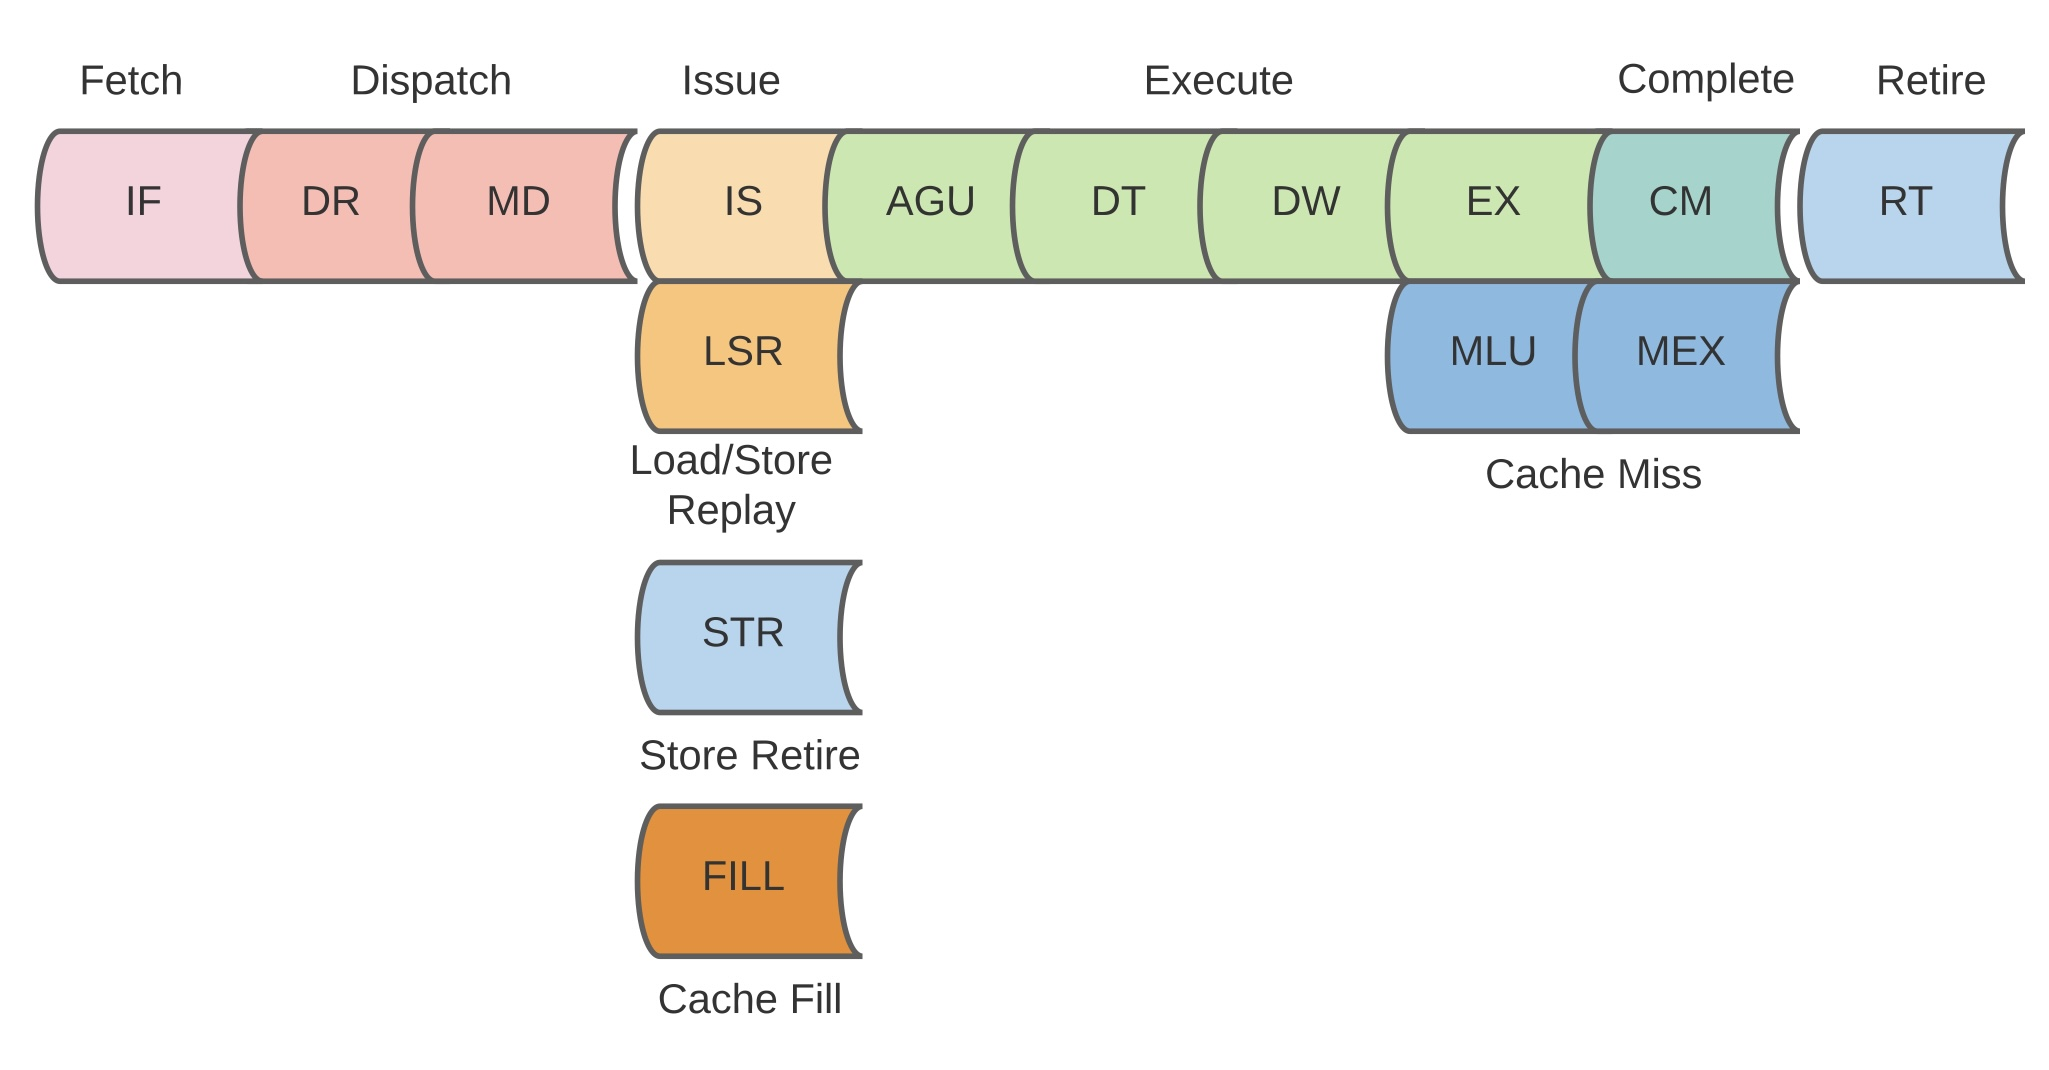
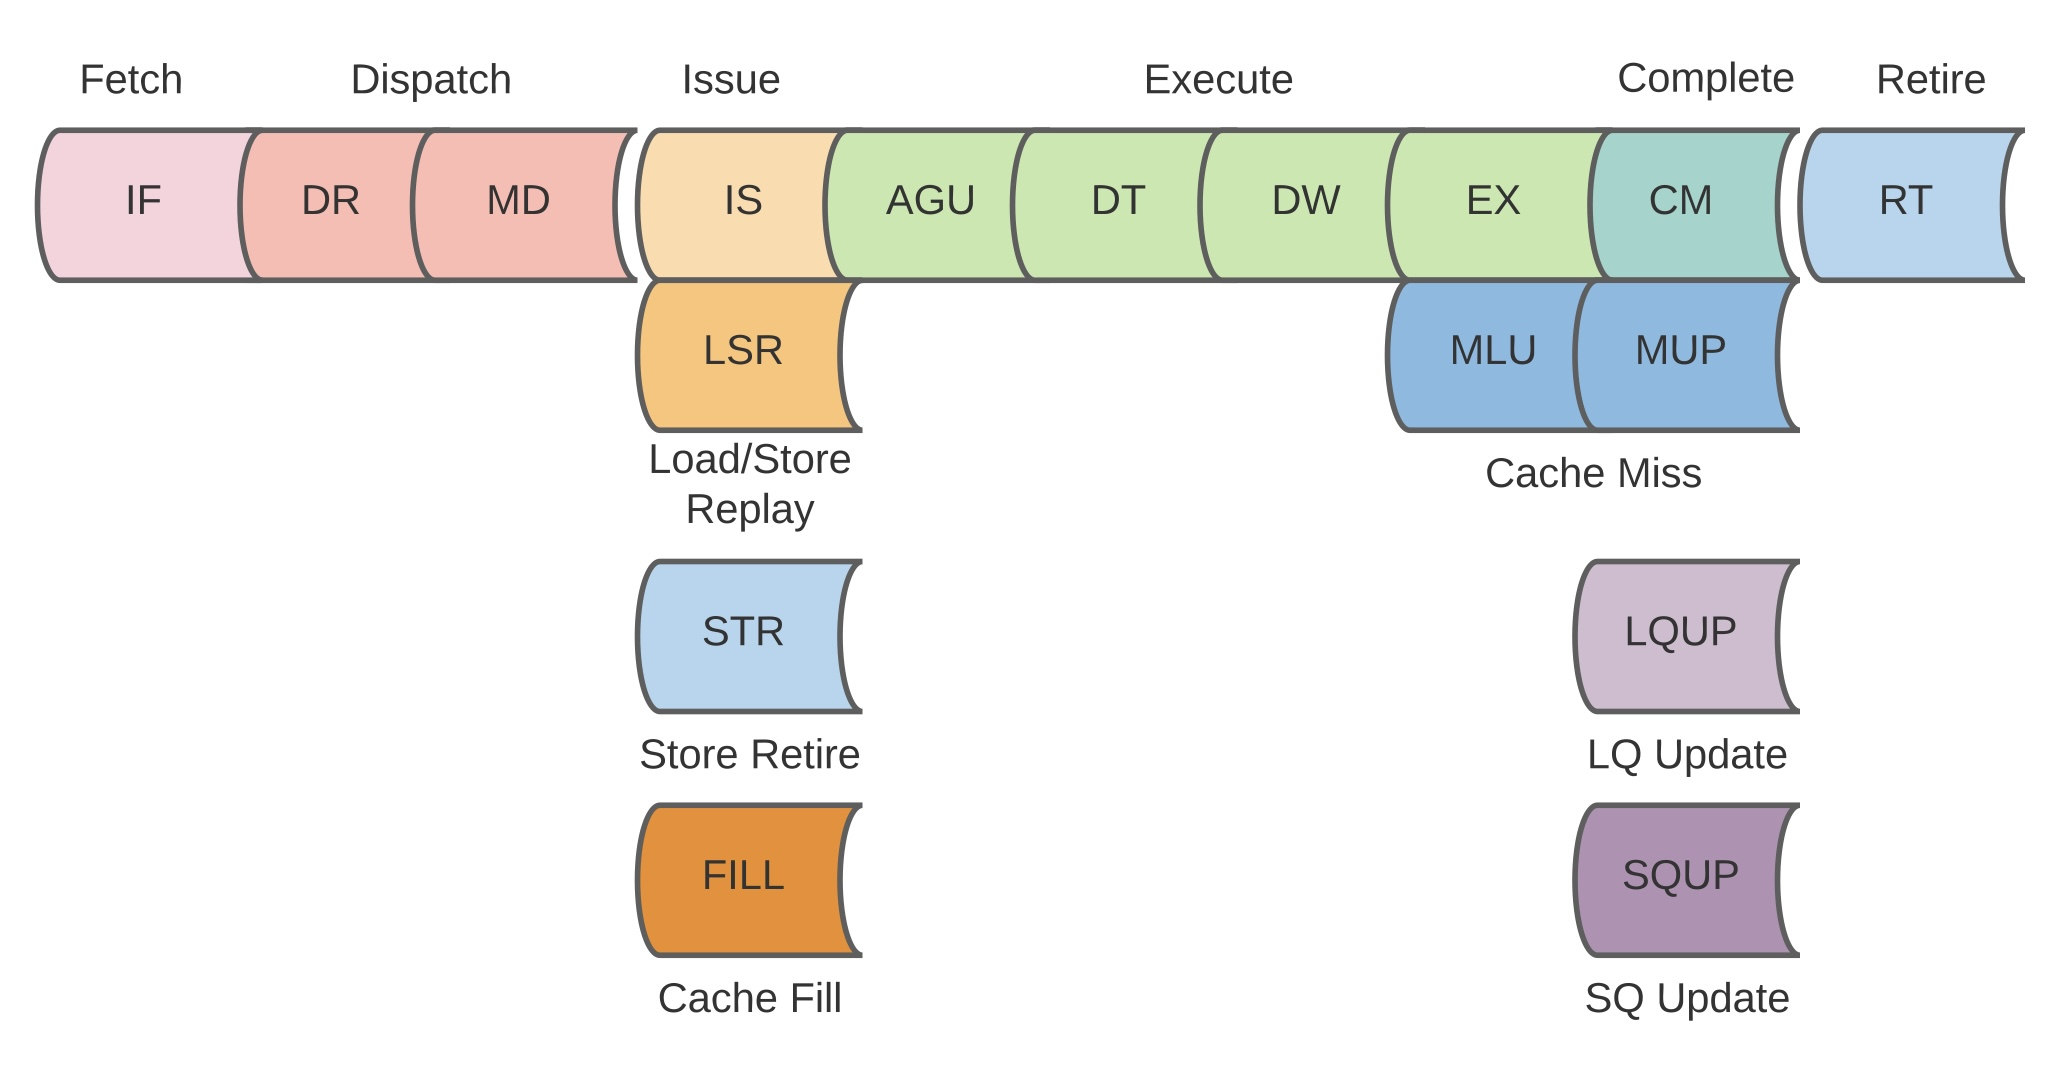
Update README.md and LSU pipeline diagram
LSU pipeline diagram upgraded to show LQ/SQ update cycle and renamed
the MEX pipe stage to MUP.

diff --git a/README.md b/README.md
@@ -122,6 +122,10 @@ The execute stage is straightforward. The actual bytes needed by the load instru
 
 The data on the CDB will be used to forward any load data to dependent instructions in any of the Reservation Stations. The ROB entry for the instruction will be marked as completed and it'll wait there until it is ready to be retired. Stores will not write to the Data Cache until they are retired to prevent mis-speculated updates to the cache and maintain precise interrupts. Both loads and stores will be kept in the respective queues until they are retired. For loads this allows retiring stores to look up younger loads and mark them as mis-speculated if the address ranges overlap. There is no store data bypassing in the LSU so this is necessary.
 
+#### LQ/SQ Update
+
+During the same cycle as `CM` (complete), the Load Queue and Store Queue will be updated with the MHQ tag or an MHQ fill in the case the load or store missed in the cache. Load/stores will be immediately be marked `replayable` if the cacheline they need is ready in the MHQ and the MHQ is ready to launch a cache fill request to the LSU.
+
 #### Retire
 
 Loads will be deallocated from the Load Queue if a mis-speculation did not occur. If the load was speculatively executed and an older Store wrote to the same bytes as the load, it'll be marked as mis-speculated in the ROB and the ROB will flush the entire pipeline and restart execution at the mis-speculated load. Stores will be removed from the ROB but not from the Store Queue. Instead they will be marked as non-speculative or retired in the Store Queue. This mechanism is described further below.
@@ -142,7 +146,7 @@ The Miss Handling Queue takes care of any cache misses. It interfaces with the B
 
 The MHQ is looked up in the same cycle as the LSU `EX` cycle. This is to find a matching entry or a new entry for the given load/store address if any exists so that, for loads, the Load Queue can be updated in the next cycle in case of a cache miss and for stores, the store data can be written to the MHQ entry in case of a cache miss.
 
-#### MHQ Execute
+#### MHQ Update
 
 A new entry is allocated in this cycle in case of a cache miss. If an entry already exists for the given load/store address the load/store will be simply be merged with this entry. For stores, this means the store data will be written into the cache-line buffer for the entry (in both the new or existing entry cases). The MHQ will interface with the BIU to request data and write received data into the entry merging the received data with the store data. There is a bypass network to select store data to be written into the buffer over received data from the BIU in case they occur on the same cycle.
 
